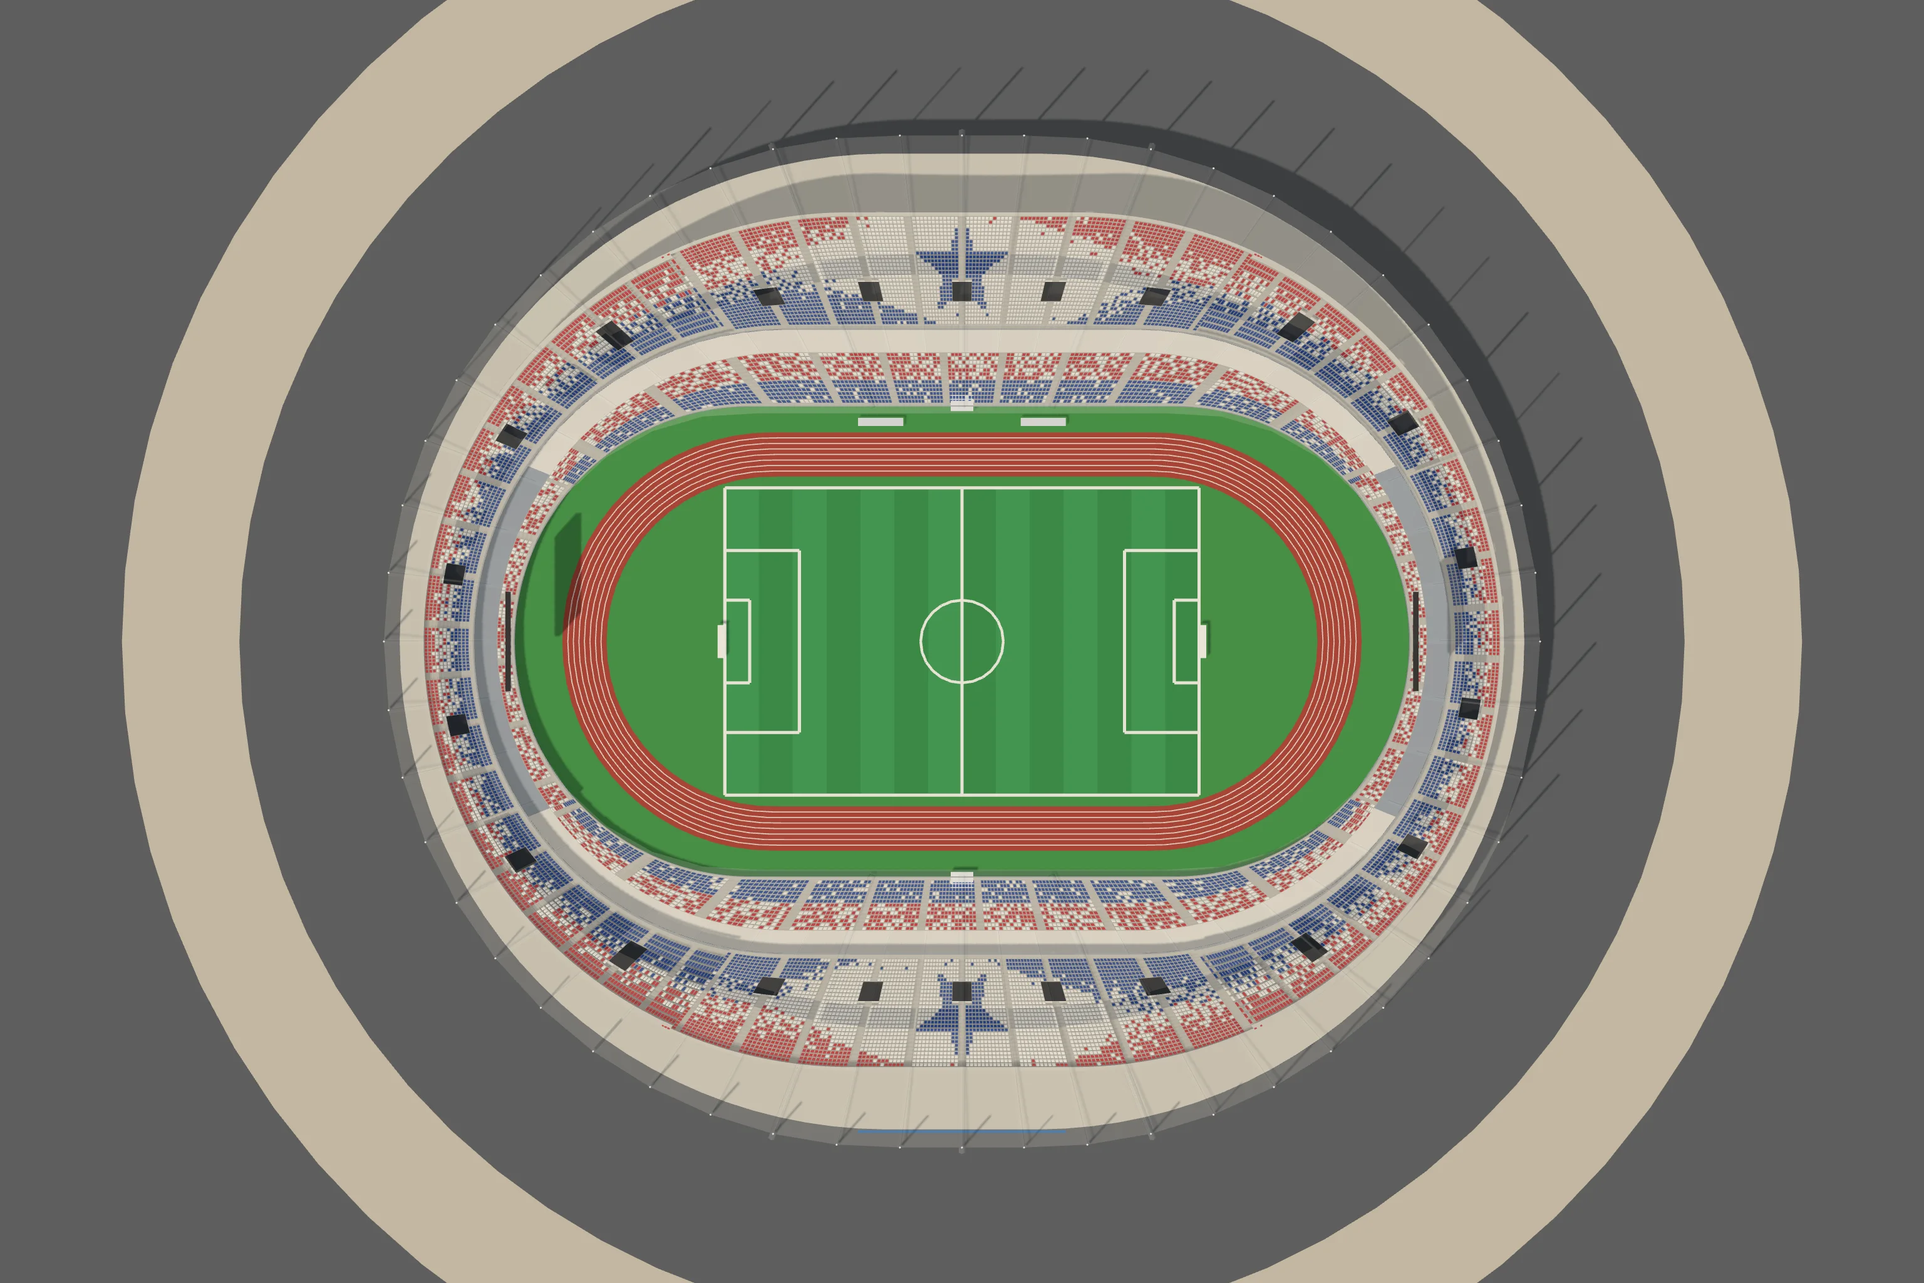
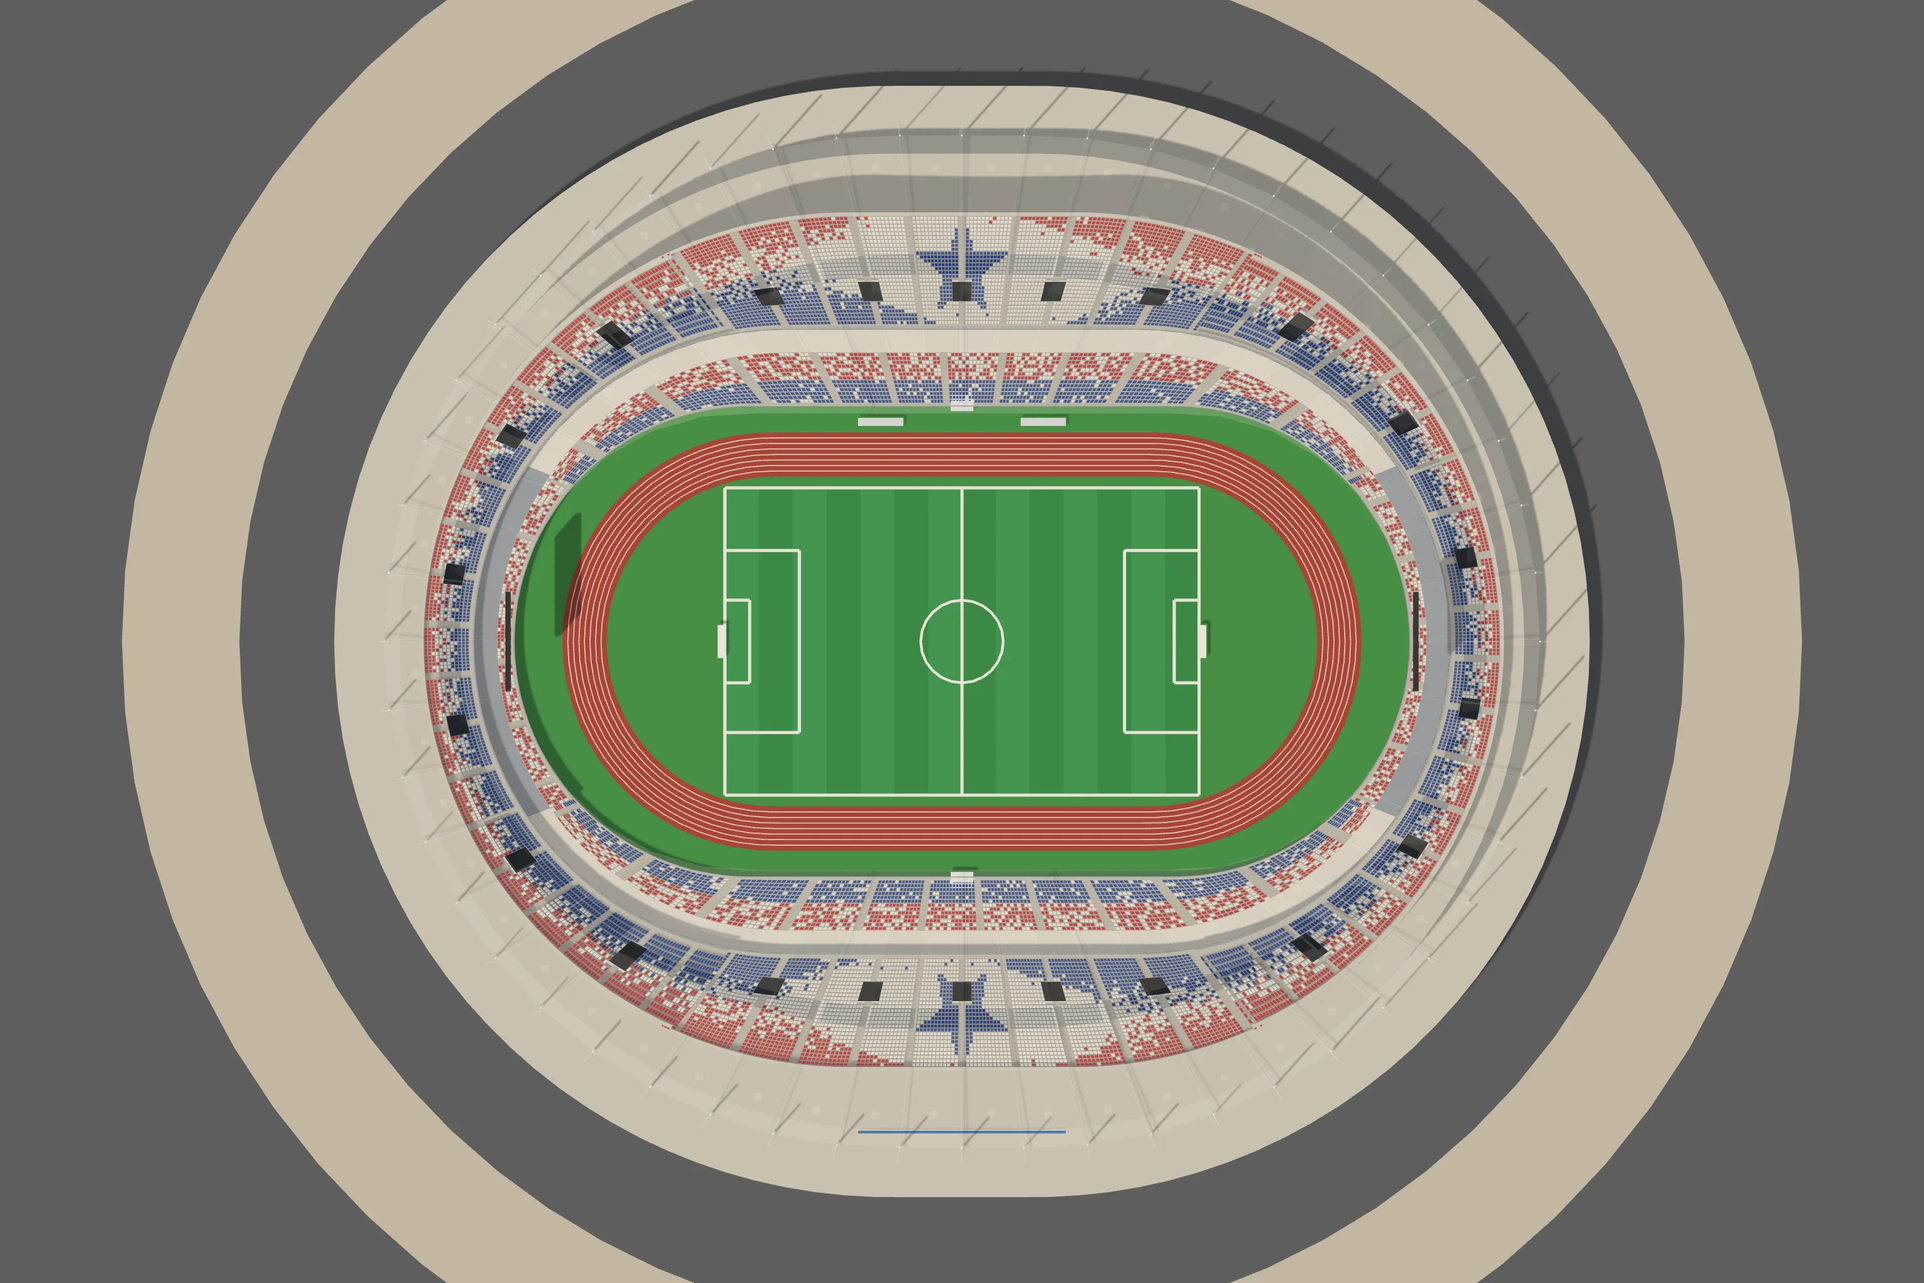
Mangueirão: fachada de galerias abertas no lugar do bloco liso
Andares de galeria atrás do lance de cima (a beira branca de cada laje, o vão
escuro, os pilares recuados) e o anel largo da rampa embaixo, com as colunas da
cobertura na frente. No gerador: fachada.galerias, semParede no piso alto e o
bico da aleta.

Claude-Session: https://claude.ai/code/session_019hwwMAyyP7ZAvyq6wYTetr

Changed region(s): [[0.1562, 0.0312, 0.8438, 0.9375]]

diff --git a/cenario3d/planta.html b/cenario3d/planta.html
@@ -289,24 +289,24 @@ button:focus-visible, input:focus-visible { outline: 2px solid var(--selecao); o
 
 <script type="module">
 import * as THREE from 'https://cdn.jsdelivr.net/npm/three@0.160.0/build/three.module.min.js';
-import { planoDaCasa, montarCasa, juntarBlocos, lugarDoDecalque, placasDoLote, segmentosDoMuro, carrosDoEstacionamento, portaoDoEstacionamento } from './js/casas3d.js?v=f336d3ac1f';
-import { montarModelos } from './js/modelos3d.js?v=f336d3ac1f';
-import { moldeDaPeca, comTransformador } from './js/props3d.js?v=f336d3ac1f';
-import { ATLAS } from './js/modelos_atlas.js?v=f336d3ac1f';
-import { Construtor, sorteio } from './js/construtor3d.js?v=f336d3ac1f';
-import { gerarProposta, MAPAS, MAPA_DO_PORTE, RUA, LONGE_DO_ESTADIO_M, cisaoDaPraca, VAO_CIDADES_M, PRAIA_A_MAIS } from './js/proposta.js?v=f336d3ac1f';
-import { montarSede, nivelQueCabe } from './js/sede3d.js?v=f336d3ac1f';
-import { onibus as onibusDetalhe, juntar as juntarDetalhe } from './js/detalhe3d.js?v=f336d3ac1f';
-import { montarLoteDeVeraneio, plantaDoLote, festaNoMundo, noMundoDoLote, cenaDaFesta, detalheDaCasaDaFesta } from './js/veraneio3d.js?v=f336d3ac1f';
-import { montarCaravana, cenaDaCaravana } from './js/caravana3d.js?v=f336d3ac1f';
-import { montarEstacao, montarTunel, montarCarro, TREM } from './js/metro3d.js?v=f336d3ac1f';
-import { montarShopping, montarDelegacia, montarPraca, montarIgreja, montarEscola, montarHospital } from './js/equip3d.js?v=f336d3ac1f';
-import { montarEquipAntigo, TIPOS_ANTIGOS } from './js/equip_antigo3d.js?v=f336d3ac1f';
-import { PECAS_PRAIA, montarPecaDaPraia } from './js/praia3d.js?v=f336d3ac1f';
-import { ESPECIES_LP, FLORA_LP, montarArvoreLowpoly, montarAsDez, facesDaArvore, especieLowpolyDe } from './js/arvores_lowpoly.js?v=f336d3ac1f';
-import { plantarMato, montarMato, LONGE_M, DENSIDADE, LADRILHO_M } from './js/mato3d.js?v=f336d3ac1f';
-import { ESTADIOS_JOGO, montarEstadioJogo, glbDoEstadio, cortarEstadio, plantaDoEstadio, modeloDaLotacao, nomeDoLetreiro, nomeComAcento, marcaDoEstadio, BOCAS_DOS_PORTOES, BILHETERIAS_DA_RUA } from './js/estadios3d.js?v=f336d3ac1f';
-import { PECAS_AMBULANTES, montarAmbulante } from './js/ambulantes3d.js?v=f336d3ac1f';
+import { planoDaCasa, montarCasa, juntarBlocos, lugarDoDecalque, placasDoLote, segmentosDoMuro, carrosDoEstacionamento, portaoDoEstacionamento } from './js/casas3d.js?v=88842e71e4';
+import { montarModelos } from './js/modelos3d.js?v=88842e71e4';
+import { moldeDaPeca, comTransformador } from './js/props3d.js?v=88842e71e4';
+import { ATLAS } from './js/modelos_atlas.js?v=88842e71e4';
+import { Construtor, sorteio } from './js/construtor3d.js?v=88842e71e4';
+import { gerarProposta, MAPAS, MAPA_DO_PORTE, RUA, LONGE_DO_ESTADIO_M, cisaoDaPraca, VAO_CIDADES_M, PRAIA_A_MAIS } from './js/proposta.js?v=88842e71e4';
+import { montarSede, nivelQueCabe } from './js/sede3d.js?v=88842e71e4';
+import { onibus as onibusDetalhe, juntar as juntarDetalhe } from './js/detalhe3d.js?v=88842e71e4';
+import { montarLoteDeVeraneio, plantaDoLote, festaNoMundo, noMundoDoLote, cenaDaFesta, detalheDaCasaDaFesta } from './js/veraneio3d.js?v=88842e71e4';
+import { montarCaravana, cenaDaCaravana } from './js/caravana3d.js?v=88842e71e4';
+import { montarEstacao, montarTunel, montarCarro, TREM } from './js/metro3d.js?v=88842e71e4';
+import { montarShopping, montarDelegacia, montarPraca, montarIgreja, montarEscola, montarHospital } from './js/equip3d.js?v=88842e71e4';
+import { montarEquipAntigo, TIPOS_ANTIGOS } from './js/equip_antigo3d.js?v=88842e71e4';
+import { PECAS_PRAIA, montarPecaDaPraia } from './js/praia3d.js?v=88842e71e4';
+import { ESPECIES_LP, FLORA_LP, montarArvoreLowpoly, montarAsDez, facesDaArvore, especieLowpolyDe } from './js/arvores_lowpoly.js?v=88842e71e4';
+import { plantarMato, montarMato, LONGE_M, DENSIDADE, LADRILHO_M } from './js/mato3d.js?v=88842e71e4';
+import { ESTADIOS_JOGO, montarEstadioJogo, glbDoEstadio, cortarEstadio, plantaDoEstadio, modeloDaLotacao, nomeDoLetreiro, nomeComAcento, marcaDoEstadio, BOCAS_DOS_PORTOES, BILHETERIAS_DA_RUA } from './js/estadios3d.js?v=88842e71e4';
+import { PECAS_AMBULANTES, montarAmbulante } from './js/ambulantes3d.js?v=88842e71e4';
 
 const $ = id => document.getElementById(id);
 const aviso = $('aviso');
@@ -323,25 +323,25 @@ function carregarScript(src) {
 }
 window.TO = window.TO || { dados: {} };
 try {
-  await carregarScript('dados/torcidas.js?v=f336d3ac1f');
-  await carregarScript('dados/times.js?v=f336d3ac1f');
-  await carregarScript('dados/cena_estadio.js?v=f336d3ac1f');
-  await carregarScript('dados/cidades.js?v=f336d3ac1f');
-  await carregarScript('dados/estadios.js?v=f336d3ac1f');
-  await carregarScript('dados/escudos.js?v=f336d3ac1f');
+  await carregarScript('dados/torcidas.js?v=88842e71e4');
+  await carregarScript('dados/times.js?v=88842e71e4');
+  await carregarScript('dados/cena_estadio.js?v=88842e71e4');
+  await carregarScript('dados/cidades.js?v=88842e71e4');
+  await carregarScript('dados/estadios.js?v=88842e71e4');
+  await carregarScript('dados/escudos.js?v=88842e71e4');
   /* o manifesto das faixas de verdade (a arte do dono, 29/09/2026): a arquibancada estende a da torcida */
-  await carregarScript('dados/faixas.js?v=f336d3ac1f').catch(() => {});
+  await carregarScript('dados/faixas.js?v=88842e71e4').catch(() => {});
   /* O DOMÍNIO DOS BAIRROS (o dono, 30/09/2026): as sedes repetidas num
      bairro saem espalhadas (nos dados, na carga) e os bares ganham o
      bairro deles — o mesmo módulo do jogo (js/mundo/dominio.js) */
-  await carregarScript('js/dominio.js?v=f336d3ac1f').catch(() => {});
+  await carregarScript('js/dominio.js?v=88842e71e4').catch(() => {});
 } catch (e) {
   aviso.textContent = 'A planta da cidade não carregou (' + e.message + '). Recarregue a página.';
   throw e;
 }
 /* os PNG dos escudos, embutidos (o montar.sh gera): sem o arquivo, o
    caminho vai direto pra img/escudos/ */
-await carregarScript('dados/escudos_embutidos.js?v=f336d3ac1f').catch(() => {});
+await carregarScript('dados/escudos_embutidos.js?v=88842e71e4').catch(() => {});
 const P = TO.dados.plantaEstadio, K = P.CIDADE, M = P.METRO, CALC = K.CALC;
 /* o mapa da vez (o pequeno, o médio ou o grande, montado pra praça
    escolhida): quem monta é usarMapa, lá embaixo */

diff --git a/cenario3d/dados/estadios_cenas.js b/cenario3d/dados/estadios_cenas.js
@@ -17174,7 +17174,7 @@ window.__ESTADIOS = {
    "visitante": 3
   },
   "foto": {
-   "imagem": "img/cenas/estadio_mangueirao.webp?v=6427c716",
+   "imagem": "img/cenas/estadio_mangueirao.webp?v=4da110fd",
    "mascara": "384;384;384;384;384;384;384;384;384;384;384;384;384;384;384;384;384;384;384;384;384;384;384;384;384;384;384;384;384;384;384;170,44,170;161,62,161;156,72,156;152,80,152;148,88,148;145,94,145;143,98,143;140,104,140;138,108,138;136,112,136;133,118,133;132,120,132;130,124,130;128,128,128;126,132,126;125,134,125;123,138,123;122,140,122;120,144,120;119,146,119;118,148,118;116,152,116;115,154,115;114,156,114;113,158,113;112,160,112;111,162,111;109,166,109;108,168,108;107,170,107;107,170,107;106,172,106;105,174,105;104,176,104;103,178,103;102,180,102;101,182,101;101,182,101;100,184,100;99,186,99;98,188,98;98,188,98;97,190,97;96,192,96;96,192,96;95,194,95;94,196,94;94,196,94;93,198,93;93,198,93;92,49,102,49,92;92,45,110,45,92;91,43,116,43,91;91,40,122,40,91;90,39,126,39,90;90,37,130,37,90;89,36,134,36,89;89,35,136,35,89;88,34,140,34,88;88,33,142,33,88;87,33,144,33,87;87,31,148,31,87;87,30,150,30,87;86,30,152,30,86;86,29,154,29,86;86,28,156,28,86;85,29,156,29,85;85,28,158,28,85;85,27,160,27,85;84,27,162,27,84;84,26,164,26,84;84,26,164,26,84;83,26,166,26,83;83,26,166,26,83;83,25,168,25,83;83,24,170,24,83;83,24,170,24,83;82,24,172,24,82;82,24,172,24,82;82,24,172,24,82;82,23,174,23,82;82,23,174,23,82;81,24,174,24,81;81,23,176,23,81;81,23,176,23,81;81,23,176,23,81;81,22,178,22,81;81,22,178,22,81;81,22,178,22,81;81,22,178,22,81;81,22,178,22,81;81,22,178,22,81;80,22,180,22,80;80,22,180,22,80;80,22,180,22,80;80,22,180,22,80;80,22,180,22,80;80,22,180,22,80;80,22,180,22,80;80,22,180,22,80;80,22,180,22,80;80,22,180,22,80;81,22,178,22,81;81,22,178,22,81;81,22,178,22,81;81,22,178,22,81;81,22,178,22,81;81,22,178,22,81;81,23,176,23,81;81,23,176,23,81;81,23,176,23,81;81,24,174,24,81;82,23,174,23,82;82,23,174,23,82;82,24,172,24,82;82,24,172,24,82;82,24,172,24,82;83,24,170,24,83;83,24,170,24,83;83,25,168,25,83;83,26,166,26,83;83,26,166,26,83;84,26,164,26,84;84,26,164,26,84;84,27,162,27,84;85,27,160,27,85;85,28,158,28,85;85,29,156,29,85;86,28,156,28,86;86,29,154,29,86;86,30,152,30,86;87,30,150,30,87;87,31,148,31,87;87,33,144,33,87;88,33,142,33,88;88,34,140,34,88;89,35,136,35,89;89,36,134,36,89;90,37,130,37,90;90,39,126,39,90;91,40,122,40,91;91,43,116,43,91;92,45,110,45,92;92,49,102,49,92;93,198,93;93,198,93;94,196,94;94,196,94;95,194,95;96,192,96;96,192,96;97,190,97;98,188,98;98,188,98;99,186,99;100,184,100;101,182,101;101,182,101;102,180,102;103,178,103;104,176,104;105,174,105;106,172,106;107,170,107;107,170,107;108,168,108;109,166,109;111,162,111;112,160,112;113,158,113;114,156,114;115,154,115;116,152,116;118,148,118;119,146,119;120,144,120;122,140,122;123,138,123;125,134,125;126,132,126;128,128,128;130,124,130;132,120,132;133,118,133;136,112,136;138,108,138;140,104,140;143,98,143;145,94,145;148,88,148;152,80,152;156,72,156;161,62,161;170,44,170;384;384;384;384;384;384;384;384;384;384;384;384;384;384;384;384;384;384;384;384;384;384;384;384;384;384;384;384;384;384;384"
   },
   "cena": {

diff --git a/cenario3d/js/jogo2d.js b/cenario3d/js/jogo2d.js
@@ -17,7 +17,7 @@
    cartão da partida cai perto da hora da bola e nada do que conta o
    placar passa na frente dele.
    ========================================================= */
-import { CASCA } from './jogo_casca.js?v=f336d3ac1f';
+import { CASCA } from './jogo_casca.js?v=88842e71e4';
 
 const carregarScript = src => new Promise((ok, erro) => {
   const s = document.createElement('script');
@@ -31,18 +31,18 @@ async function montarJogo() {
   caixa.innerHTML = CASCA;
   while (caixa.firstChild) document.body.appendChild(caixa.firstChild);
   /* os escudos, as fotos das praças e as bandeiras embutidos (o `IMG()` do jogo procura aqui antes do caminho) */
-  await carregarScript('dados/imagens_jogo.js?v=f336d3ac1f').catch(() => {});
+  await carregarScript('dados/imagens_jogo.js?v=88842e71e4').catch(() => {});
   /* os estádios low-poly das cenas (ferramentas/estadios/assar.js): antes do jogo, que monta as cenas quando carrega */
-  await carregarScript('dados/estadios_cenas.js?v=f336d3ac1f').catch(() => {});
-  await carregarScript('dados/arredores_cenas.js?v=f336d3ac1f').catch(() => {});
+  await carregarScript('dados/estadios_cenas.js?v=88842e71e4').catch(() => {});
+  await carregarScript('dados/arredores_cenas.js?v=88842e71e4').catch(() => {});
   /* sem o rolo do feed: a tela entre os jogos é o portal */
   window.TO = window.TO || {};
   TO.semFeed = true;
-  await carregarScript('js/jogo.js?v=f336d3ac1f');
-  await carregarScript('js/portal.js?v=f336d3ac1f').catch(err => console.error('o portal não carregou:', err));
+  await carregarScript('js/jogo.js?v=88842e71e4');
+  await carregarScript('js/portal.js?v=88842e71e4').catch(err => console.error('o portal não carregou:', err));
   /* o boneco das cenas de imagem (os dois níveis afinados, em base64) */
-  if (!TO.dados.bonecoPertoGLB) await carregarScript('dados/boneco_glb.js?v=f336d3ac1f').catch(() => {});
-  await import('./bonecos3_global.js?v=f336d3ac1f').catch(err => console.error('o boneco das cenas não carregou:', err));
+  if (!TO.dados.bonecoPertoGLB) await carregarScript('dados/boneco_glb.js?v=88842e71e4').catch(() => {});
+  await import('./bonecos3_global.js?v=88842e71e4').catch(err => console.error('o boneco das cenas não carregou:', err));
   ligar();
 }
 

diff --git a/cenario3d/jogo.html b/cenario3d/jogo.html
@@ -9,16 +9,16 @@
 <link rel="preconnect" href="https://fonts.googleapis.com">
 <link rel="preconnect" href="https://fonts.gstatic.com" crossorigin>
 <link rel="stylesheet" href="https://fonts.googleapis.com/css2?family=Barlow+Semi+Condensed:wght@500;600;700&family=Barlow:wght@400;500;600&family=IBM+Plex+Mono:wght@400;500&display=swap">
-<link rel="stylesheet" href="css/jogo.css?v=f336d3ac1f">
-<link rel="stylesheet" href="css/jogo3d.css?v=f336d3ac1f">
-<link rel="stylesheet" href="css/portal.css?v=f336d3ac1f">
-<link rel="stylesheet" href="css/telas3d.css?v=f336d3ac1f">
+<link rel="stylesheet" href="css/jogo.css?v=88842e71e4">
+<link rel="stylesheet" href="css/jogo3d.css?v=88842e71e4">
+<link rel="stylesheet" href="css/portal.css?v=88842e71e4">
+<link rel="stylesheet" href="css/telas3d.css?v=88842e71e4">
 <style>
 [hidden] { display: none !important; }
 html, body { height: 100%; margin: 0; }
 </style>
 </head>
 <body class="jogo3d">
-<script type="module" src="js/jogo2d.js?v=f336d3ac1f"></script>
+<script type="module" src="js/jogo2d.js?v=88842e71e4"></script>
 </body>
 </html>

diff --git a/cenario3d/js/casas3d.js b/cenario3d/js/casas3d.js
@@ -60,10 +60,10 @@
    avançam (`rec`), e o letreiro, a pixação e a falha de reboco do
    bairro vão pro plano dessa parede, não pro da divisa.
    ========================================================= */
-import { Construtor, METRO, mureta, toldo, arSplit, sorteio } from './construtor3d.js?v=f336d3ac1f';
-import { ATLAS } from './modelos_atlas.js?v=f336d3ac1f';
+import { Construtor, METRO, mureta, toldo, arSplit, sorteio } from './construtor3d.js?v=88842e71e4';
+import { ATLAS } from './modelos_atlas.js?v=88842e71e4';
 /* as lojas do assalto (lojas3d.js): modelos de lote como os outros */
-import { TIPOS_LOJA, REC_LOJA, placaDaLoja } from './lojas3d.js?v=f336d3ac1f';
+import { TIPOS_LOJA, REC_LOJA, placaDaLoja } from './lojas3d.js?v=88842e71e4';
 
 /* o arquivo de cada folha, pro bairro montar o material dele */
 export const arquivoDaFolha = folha => ATLAS[folha].arquivo;

diff --git a/cenario3d/js/ambulantes3d.js b/cenario3d/js/ambulantes3d.js
@@ -27,8 +27,8 @@
    que a planta acha o lugar dela na calçada do estádio. `sol`: o meio e
    o raio da copa ([x, z, r]), que o mapa desenha de perto.
    ========================================================= */
-import { Construtor, noMundo, placasNoMundo, sorteio, esfera, unit } from './construtor3d.js?v=f336d3ac1f';
-import { Lugar, barra, tubo, cilindro, bloco, pano, toro, guardaSol, cadeiraPlastica, isopor, banqueta, CORES_SOL } from './praia3d.js?v=f336d3ac1f';
+import { Construtor, noMundo, placasNoMundo, sorteio, esfera, unit } from './construtor3d.js?v=88842e71e4';
+import { Lugar, barra, tubo, cilindro, bloco, pano, toro, guardaSol, cadeiraPlastica, isopor, banqueta, CORES_SOL } from './praia3d.js?v=88842e71e4';
 
 const AQUI = Lugar();
 const escolha = (rnd, lista) => lista[Math.floor(rnd() * lista.length) % lista.length];

diff --git a/cenario3d/js/praia3d.js b/cenario3d/js/praia3d.js
@@ -36,8 +36,8 @@
    cadeira e a mesa de plástico) servem também os ambulantes da porta do
    estádio (ambulantes3d.js), na mesma folha.
    ========================================================= */
-import { Construtor, METRO, lerp, sub, soma, esc, unit, pv, noMundo, placasNoMundo, sorteio, varrer, esfera } from './construtor3d.js?v=f336d3ac1f';
-import { montarArvoreLowpoly } from './arvores_lowpoly.js?v=f336d3ac1f';
+import { Construtor, METRO, lerp, sub, soma, esc, unit, pv, noMundo, placasNoMundo, sorteio, varrer, esfera } from './construtor3d.js?v=88842e71e4';
+import { montarArvoreLowpoly } from './arvores_lowpoly.js?v=88842e71e4';
 
 const ALTO = [0, 1, 0];
 const escolha = (rnd, lista) => lista[Math.floor(rnd() * lista.length) % lista.length];

diff --git a/cenario3d/js/modelos3d.js b/cenario3d/js/modelos3d.js
@@ -32,8 +32,8 @@
    requadro da janela, toldo, ar-condicionado. O resto é pintura.
    ========================================================= */
 import * as THREE from 'https://cdn.jsdelivr.net/npm/three@0.160.0/build/three.module.min.js';
-import { ATLAS } from './modelos_atlas.js?v=f336d3ac1f';
-import { Construtor, METRO, lerp, sub, soma, esc, pv, pe, unit, recuoPoligono, mureta, toldo, arSplit } from './construtor3d.js?v=f336d3ac1f';
+import { ATLAS } from './modelos_atlas.js?v=88842e71e4';
+import { Construtor, METRO, lerp, sub, soma, esc, pv, pe, unit, recuoPoligono, mureta, toldo, arSplit } from './construtor3d.js?v=88842e71e4';
 
 /* =======================================================
    1. A IGREJA MATRIZ

diff --git a/cenario3d/js/props3d.js b/cenario3d/js/props3d.js
@@ -26,8 +26,8 @@
    poste vira uma haste de longe; o resto, que é miúdo, some.
    ========================================================= */
 import * as THREE from 'https://cdn.jsdelivr.net/npm/three@0.160.0/build/three.module.min.js';
-import { ATLAS } from './modelos_atlas.js?v=f336d3ac1f';
-import { Construtor, METRO, lerp } from './construtor3d.js?v=f336d3ac1f';
+import { ATLAS } from './modelos_atlas.js?v=88842e71e4';
+import { Construtor, METRO, lerp } from './construtor3d.js?v=88842e71e4';
 
 /* as cores que o vértice dá pro que sai claro na folha */
 const COR_CESTO = ['#6aa33a', '#d2b53a', '#3f82ad', '#8b6a3c', '#b8452f'];

diff --git a/cenario3d/js/mato3d.js b/cenario3d/js/mato3d.js
@@ -19,8 +19,8 @@
 
    Tudo em metros; `noMundo` converte. A mesma semente dá o mesmo mato.
    ========================================================= */
-import { METRO, noMundo, sorteio } from './construtor3d.js?v=f336d3ac1f';
-import { facesDaArvore, especieLowpolyDe } from './arvores_lowpoly.js?v=f336d3ac1f';
+import { METRO, noMundo, sorteio } from './construtor3d.js?v=88842e71e4';
+import { facesDaArvore, especieLowpolyDe } from './arvores_lowpoly.js?v=88842e71e4';
 
 /* a área de chão de cada árvore (m²), por lugar */
 export const DENSIDADE = { mata: 70, cerrado: 200, caatinga: 150, sul: 90, praia: 120, cidade: 250 };

diff --git a/cenario3d/js/bonecos3_global.js b/cenario3d/js/bonecos3_global.js
@@ -14,7 +14,7 @@
    DOMContentLoaded: quem usa (a ponte, numa cena aberta pelo jogador)
    chega muito depois.
    ========================================================= */
-import { montar, desenharDeCima, desenharVitrine, limparDeCima, fotoDoTrofeu, fotoDaBriga, fotoDaCena, perdeu, bonecos } from './bonecos3_cena.js?v=f336d3ac1f';
+import { montar, desenharDeCima, desenharVitrine, limparDeCima, fotoDoTrofeu, fotoDaBriga, fotoDaCena, perdeu, bonecos } from './bonecos3_cena.js?v=88842e71e4';
 
 window.TO = window.TO || {};
 TO.diaJogo = TO.diaJogo || {};

diff --git a/cenario3d/js/bonecos3_cena.js b/cenario3d/js/bonecos3_cena.js
@@ -103,7 +103,7 @@
       numa fase sorteada (quem sai junto não sai no mesmo pé).
    ========================================================= */
 import * as THREE from 'https://cdn.jsdelivr.net/npm/three@0.160.0/build/three.module.min.js';
-import { GLTFLoader, SkeletonUtils } from './GLTFLoader.js?v=f336d3ac1f';
+import { GLTFLoader, SkeletonUtils } from './GLTFLoader.js?v=88842e71e4';
 
 /* onde o modelo mora, quando não vem embutido em base64: o detalhado
    (o do Blender) e os dois níveis afinados dele (ferramentas/afinar_boneco.mjs) */
